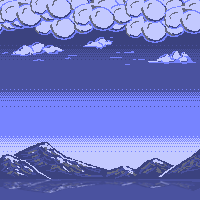
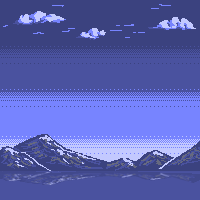
Create gameover page with score and update welcome and fishing pages with new assets

diff --git a/src/gameplay/game_menus.c b/src/gameplay/game_menus.c
@@ -8,6 +8,8 @@ void gameoverUpdate(GameApp* _game)
 {
     if (isKeyDown(KEY_ESCAPE) == TRUE) {
         enterWelcomeScreen(_game);
+    } else if (isKeyDown(KEY_ENTER) == TRUE) {
+        enterFishingScreen(_game);
     } else if (isKeyDown(KEY_R) == TRUE) {
         enterFishingScreen(_game);
     }
@@ -16,9 +18,56 @@ void gameoverUpdate(GameApp* _game)
 void gameoverRender(GameApp* _game)
 {
     // The world center 0:0 is the center of the screen.
-    const vecf2 center = { 0.0f, 0.0f };
+    // UI position is in World units (as beeing seen by camera).
+    // Positions are hard coded (simply based on the visual results on screen)
+
+    // Background
     const vecf2 scale = { 1.0f, 1.0f };
+    vecf2 center = { 0.0f, 0.0f };
     drawSprite(_game->resources.gameover, center, scale, _game->engine->shaderID);
+
+    // Foreground UI
+    center.x = 0.0f;
+    center.y = 82.5f;
+    drawSprite(_game->resources.foreground, center, scale, _game->engine->shaderID);
+
+    // Score
+    vecf2 score_position = { -14.0f, GAME_CAMERA_RECT_HEIGHT / 2.1f };
+
+    int score = _game->currentScore;
+    int digit_hundred = (score / 100) % 10; // 100 -> gives 1
+    int digit_ten = (score / 10) % 10;      // 92 -> gives 9
+    int digit_unit = score % 10;            // 92 -> gives 2
+
+    // Score in UI
+    drawSprite(_game->resources.fontsBitmap[digit_hundred], score_position, scale, _game->engine->shaderID);
+    score_position.x += _game->resources.fontsBitmap[digit_hundred]->size.x;
+    drawSprite(_game->resources.fontsBitmap[digit_ten], score_position, scale, _game->engine->shaderID);
+    score_position.x += _game->resources.fontsBitmap[digit_ten]->size.x;
+    drawSprite(_game->resources.fontsBitmap[digit_unit], score_position, scale, _game->engine->shaderID);
+
+    // Score
+    score_position.x = -50;
+    score_position.y = -20;
+    drawSprite(_game->resources.fontsBitmap[digit_hundred], score_position, scale, _game->engine->shaderID);
+    score_position.x += _game->resources.fontsBitmap[digit_hundred]->size.x;
+    drawSprite(_game->resources.fontsBitmap[digit_ten], score_position, scale, _game->engine->shaderID);
+    score_position.x += _game->resources.fontsBitmap[digit_ten]->size.x;
+    drawSprite(_game->resources.fontsBitmap[digit_unit], score_position, scale, _game->engine->shaderID);
+
+    // Best score
+    score = _game->bestScore;
+    digit_hundred = (score / 100) % 10; // 100 -> gives 1
+    digit_ten = (score / 10) % 10;      // 92 -> gives 9
+    digit_unit = score % 10;            // 92 -> gives 2
+
+    score_position.x = 50;
+    score_position.y = -20;
+    drawSprite(_game->resources.fontsBitmap[digit_hundred], score_position, scale, _game->engine->shaderID);
+    score_position.x += _game->resources.fontsBitmap[digit_hundred]->size.x;
+    drawSprite(_game->resources.fontsBitmap[digit_ten], score_position, scale, _game->engine->shaderID);
+    score_position.x += _game->resources.fontsBitmap[digit_ten]->size.x;
+    drawSprite(_game->resources.fontsBitmap[digit_unit], score_position, scale, _game->engine->shaderID);
 }
 
 void welcomeUpdate(GameApp* _game)
@@ -26,6 +75,8 @@ void welcomeUpdate(GameApp* _game)
     if (isKeyDown(KEY_ESCAPE) == TRUE) {
         leaveApp(_game);
     } else if (isKeyDown(KEY_ENTER) == TRUE) {
+        enterFishingScreen(_game);
+    } else if (isKeyDown(KEY_R) == TRUE) {
         enterFishingScreen(_game);
     }
 }

diff --git a/src/gameplay/fishing.c b/src/gameplay/fishing.c
@@ -74,6 +74,10 @@ void fishingTimeUpdate(Engine* _engine, GameApp* _gameapp, FishingTime* _game, f
     }
     if (_game->remainingTime <= 0.0f) {
         enterGameoverScreen(_gameapp);
+        _gameapp->currentScore = _game->score;
+        if (_gameapp->bestScore < _game->score) {
+            _gameapp->bestScore = _game->score;
+        }
         return;
     }
 
@@ -252,7 +256,7 @@ void fishingTimeRender(Engine* _engine, GameApp* _gameapp, FishingTime* _game)
         }
     }
 
-    // Foreground
+    // Foreground UI
     // Hardcoded position but basically it is (backgroundSize - 35) / 2
     // See the background sprite size
     center.x = 0.0f;

diff --git a/src/gameplay/game_resources.c b/src/gameplay/game_resources.c
@@ -134,7 +134,7 @@ int gameResourcesLoadAll(GameResources* _resources, const char* _resourcesDirPat
     ASSERT_MSG(_resources->welcome != NULL, "Invalid NULL resource");
 
     // Gameover
-    texID = internalLoadTexture(_resourcesDirPath, "placeholder.png");
+    texID = internalLoadTexture(_resourcesDirPath, "gameover.png");
     spriteID = resourceLoadSprite(resourceGetTexture(texID), 200, 200, origin);
     _resources->gameover = resourceGetSprite(spriteID);
     ASSERT_MSG(_resources->gameover != NULL, "Invalid NULL resource");

diff --git a/src/gameplay/game_app.c b/src/gameplay/game_app.c
@@ -45,7 +45,7 @@ int gameInit(void* _gamePtr)
     fishingTimeInit(game->engine, game, s_fishingTime);
     game->currentScreen = GAME_SCREEN_WELCOME;
     game->bestScore = 0;
-    game->lastScore = 0;
+    game->currentScore = 0;
 
     return 0;
 }

diff --git a/src/gameplay/config.h b/src/gameplay/config.h
@@ -32,7 +32,7 @@
 
 #define GAME_FISH_COUNT 15
 
-#define GAME_TIME_AT_START_IN_SEC 60
+#define GAME_TIME_AT_START_IN_SEC 5
 
 // In practice, speeds are in pixel per seconds
 #define GAME_BOAT_SPEED 100.0f

diff --git a/src/gameplay/game_app.h b/src/gameplay/game_app.h
@@ -20,7 +20,7 @@ typedef struct
     char* resourcesPath;
     char* shadersPath;
     int bestScore;
-    int lastScore;
+    int currentScore;
 } GameApp;
 
 int gameInit(void* _gamePtr);
